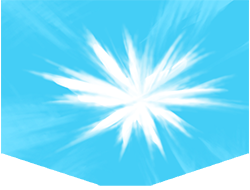
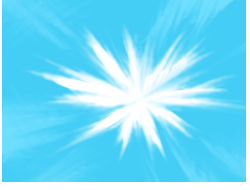
卡图更换

Changed region(s): [[0.0, 0.0, 1.0, 1.0]]

diff --git a/src/main/java/demoMod/icebreaker/cards/lightlemon/IceShield.java b/src/main/java/demoMod/icebreaker/cards/lightlemon/IceShield.java
@@ -15,7 +15,7 @@ public class IceShield extends AbstractLightLemonCard {
     private static final CardStrings cardStrings = CardCrawlGame.languagePack.getCardStrings(ID);
     public static final String NAME = cardStrings.NAME;
     public static final String DESCRIPTION = cardStrings.DESCRIPTION;
-    public static final String IMG_PATH = "cards/IceShield.png";
+    public static final String IMG_PATH = "cards/Chronarrier.png";
 
     private static final CardType TYPE = CardType.SKILL;
     private static final CardRarity RARITY = CardRarity.BASIC;
